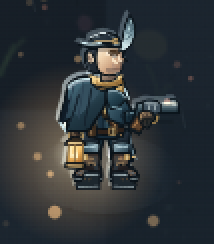
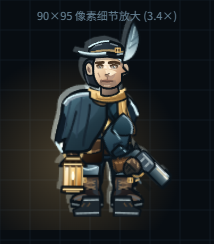
商业级改造 09：守夜人装备精修与动力学增强
落实 2026-10-22「人物贴图一般、不精致」反馈，在 08 轮整身重绘基础上继续
精修，不加玩法、不靠光晕换色凑数：

1. 腰间新增圣化以太玻璃瓶与皮质弹药匣，随呼吸自然晃动（图集扩至 36 部件）
2. 三角猎人帽按五个视角独立绘制冠部折痕、卷边羽翼与飘带透视
3. 六种武器加入发蓝冷钢高光、胡桃木滚花、黄铜准星与进化版光流刻线
4. 提灯升级为双层冲孔笼架，含导流顶盖与内嵌灯芯
5. 冲刺气动前倾与残血 3.8Hz 急促呼吸，体况直接写在身体上
6. 图集显存 1.97 MiB，运行时零渐变零画布分配，单帧绘制 0.42 ms

兼容性：碰撞半径 15、枪口锚点 (24,0)、自动/定向瞄准、触屏与本地存档不变。
验证：node --check 全部通过，回归 71/71，浏览器全流程 0 报错，详见
docs/verification-2026-10-28.md。

diff --git a/js/character.js b/js/character.js
@@ -74,6 +74,29 @@ window.Character = (function () {
     line(c, '#fff2bd', 0.3, 'M0 -0.6 L0 2.6 M-1.3 1 L1.3 1');
   }
 
+  function vial(c) {
+    // Sanctified blue ether vial on hip: glass tube with cork stopper and luminous contents.
+    paint(c, '#5c412b', 'M-1.4 -3.6 L1.4 -3.6 L1 -2 L-1 -2 Z', INK, 0.4);
+    paint(c, '#2c2218', 'M-2 -2 L2 -2 L2.4 -0.8 L-2.4 -0.8 Z', INK, 0.45);
+    line(c, BRASS, 0.5, 'M-1.8 -1.4 L1.8 -1.4');
+    paint(c, 'rgba(20,40,55,.65)', 'M-2.2 -0.8 L2.2 -0.8 C2.6 2 2.6 5 1.8 6.5 C1 7.4 -1 7.4 -1.8 6.5 C-2.6 5 -2.6 2 -2.2 -0.8 Z', INK, 0.5);
+    paint(c, grad(c, 0, 1, 0, 6.5, ['#7be2f8', '#2fa8d0', '#155b76']),
+      'M-1.8 1.5 C-0.5 1 0.5 1 1.8 1.5 C2.2 3.5 2.2 5 1.5 6 C0.8 6.6 -0.8 6.6 -1.5 6 C-2.2 5 -2.2 3.5 -1.8 1.5 Z', null);
+    line(c, '#e0f9ff', 0.4, 'M-1.5 1.6 C0 1.2 1.5 1.6 1.5 1.6');
+    line(c, 'rgba(255,255,255,.65)', 0.4, 'M-1.8 0.2 C-2.2 2 -2.1 4.5 -1.4 5.8');
+  }
+
+  function gearPouch(c) {
+    // Heavy oiled leather cartridge box with brass snap clasp on the hunter's belt.
+    paint(c, grad(c, -3.5, -2, 3.5, 4.5, ['#4f3929', '#2f2117', '#140d09']),
+      'M-3.2 -2 L3.2 -2 C3.8 -2 4.2 -1.4 4.2 -0.6 L4 4 C4 4.8 3.4 5.2 2.6 5.2 L-2.6 5.2 C-3.4 5.2 -4 4.8 -4 4 L-4.2 -0.6 C-4.2 -1.4 -3.8 -2 -3.2 -2 Z', INK, 0.6);
+    paint(c, grad(c, -3.5, -2, 3.5, 2, ['#5d4432', '#3a2b1f']),
+      'M-3.6 -2 L3.6 -2 L3.4 1.5 C2 2.4 -2 2.4 -3.4 1.5 Z', INK, 0.5);
+    line(c, '#99734e', 0.35, 'M-3.2 -1.6 L3.2 -1.6 M-3 1.2 C-1.5 2 1.5 2 3 1.2');
+    c.fillStyle = BRASS; c.fillRect(-0.7, 1, 1.4, 1.2);
+    c.fillStyle = BRASS_HI; c.fillRect(-0.4, 1.2, 0.8, 0.6);
+  }
+
   function kneeGuard(c) {
     // A separate curved knee plate makes the stride read as a joint, not a tube.
     paint(c, grad(c, -3, 0, 3, 4, ['#9db6bf', '#4f6a77', '#1f333f']),
@@ -246,24 +269,86 @@ window.Character = (function () {
       line(c, RIM, 0.5, 'M-5 -23 C-8 -20 -7 -16 -5 -14');
     }
     // A low cocked tricorn: crown -28, brim -23.5; face -23..-12 stays exposed.
-    // Painted as three folded planes plus a banded brim, so it holds up in silhouette.
-    paint(c, grad(c, -6, -28, 5, -23, ['#566872', '#27333e', '#101b24']),
-      'M-6 -24 C-6 -26 -4 -27.4 -2 -27.4 L0 -28 L4 -27 C5 -25.4 6 -24.4 7 -23.6 L-6 -23.6 Z', INK, 0.85);
-    paint(c, '#28353f', 'M-6 -25 L-3 -26.2 L-1 -27 L0 -25.2 L5 -24.4 L4 -23.6 L-6 -23.6 Z', null);
-    paint(c, '#141e27', 'M0 -25.2 L5 -24.4 L4 -23.6 L0 -23.6 Z', null);
-    line(c, '#74838c', 0.45, 'M-4 -26.4 L-2 -26.8 M1 -27 L3 -26.5');
-    line(c, '#e6f3f6', 0.5, 'M-6 -26 C-4 -27.4 -2 -27.8 0 -28');
-    // Hat band and cockade sit above the brim and read at 1x.
-    paint(c, '#1c2933', 'M-5.6 -24.9 L5.6 -24.9 L5.4 -23.9 L-5.4 -23.9 Z', null);
-    line(c, '#9c8557', 0.5, 'M-5.2 -24.4 L5 -24.4');
-    // Brim: front plane, underside shadow separated by a bright wet edge.
-    paint(c, grad(c, -9, -24.4, 8, -22, ['#22303a', '#121c24', '#0b131a']),
-      'M-9 -24.4 C-5 -22.4 -4 -24.4 -1 -24.4 C2 -24.4 4 -22.3 8 -24.4 L9 -23.4 C6 -22.1 2 -22.4 0 -22.8 C-4 -22.6 -7 -22.2 -10 -23.4 Z', INK, 0.75);
-    paint(c, '#303f47', 'M-8.6 -24 C-5 -22.8 -3 -23.6 -1 -23.8 L0 -23 C-3 -22.8 -6 -22.4 -9 -23.6 Z', null);
-    line(c, '#8ea1a8', 0.65, 'M-9 -24.2 C-6 -22.9 -4 -23.7 -2 -23.8 M3 -23.5 L7.5 -24.1');
-    line(c, RIM, 0.55, 'M-9.4 -24.5 C-6 -23.2 -4 -24 -2 -24.1');
-    line(c, '#a8916a', 0.7, 'M-4 -24.6 C0 -25.2 2 -24.9 4 -24.4');
-    buckle(c, 2.8, -25.6, 1.6, 1.3);
+    // Painted with view-specific 3D perspective geometry so the 8-directional profile reads crisp.
+    const back = view === 'back', rearQ = view === 'rearquarter';
+    if (back) {
+      // Direct back: high arched crown, swept-up rear brim wings left & right, central nape cleft.
+      paint(c, grad(c, -6, -28.5, 6, -23, ['#4c5c66', '#222d36', '#0d161d']),
+        'M-5 -24 C-5 -26.5 -3 -28.2 0 -28.2 C3 -28.2 5 -26.5 5 -24 L-5 -24 Z', INK, 0.85);
+      paint(c, '#1a242c', 'M-4 -25.5 C-2 -27 2 -27 4 -25.5 L4.5 -24 L-4.5 -24 Z', null);
+      line(c, '#687780', 0.45, 'M-3 -27 C0 -27.8 3 -27 4 -26');
+      line(c, RIM, 0.55, 'M-5 -26 C-2 -28 2 -28 5 -26');
+      paint(c, grad(c, -8, -24.5, 8, -22, ['#1c262e', '#10171d', '#080d12']),
+        'M-8.5 -24.8 C-5 -22.8 -1 -23.2 0 -23.6 C1 -23.2 5 -22.8 8.5 -24.8 L9 -23.6 C6 -22.2 2 -22.6 0 -22.8 C-2 -22.6 -6 -22.2 -9 -23.6 Z', INK, 0.75);
+      paint(c, '#2b3840', 'M-8 -24.2 C-5 -22.8 0 -23.2 3 -23.6 L0 -23 C-3 -22.8 -6 -22.4 -8 -23.6 Z', null);
+      line(c, '#7e9096', 0.55, 'M-8.2 -24.4 C-4 -23 4 -23 8.2 -24.4');
+      paint(c, '#141d24', 'M-1.5 -24.5 L1.5 -24.5 L2 -23.5 L-2 -23.5 Z', null);
+      line(c, '#b39762', 0.5, 'M-1.2 -24 L1.2 -24');
+      line(c, '#33271c', 0.6, 'M-0.8 -23.5 L-1.4 -19 M0.8 -23.5 L1.4 -19');
+      line(c, '#9e8555', 0.35, 'M-0.7 -23.2 L-1.2 -19.4 M0.7 -23.2 L1.2 -19.4');
+    } else if (rearQ) {
+      // 3/4 Back: angled crown, far wing tapering, near wing broad and upturned
+      paint(c, grad(c, -6, -28, 5, -23, ['#50606a', '#24303a', '#0e1820']),
+        'M-6 -24 C-6 -26.2 -3.5 -27.8 -0.5 -28 L3.5 -27.2 C4.8 -25.6 5.8 -24.6 6.5 -23.8 L-6 -23.8 Z', INK, 0.85);
+      paint(c, '#202a32', 'M-5 -25 L-2 -26.5 2 -25.8 L5 -24.2 L-5 -24.2 Z', null);
+      line(c, '#6f7e88', 0.45, 'M-3.5 -26.8 L0 -27.2 M2 -26.8 L4 -26');
+      line(c, RIM, 0.55, 'M-5.8 -26 C-3.5 -27.6 -1 -28 1 -28');
+      paint(c, grad(c, -8.5, -24.4, 7.5, -22, ['#1f2a32', '#111920', '#090f15']),
+        'M-8.8 -24.6 C-5 -22.6 -2 -24.2 0 -24.4 C3 -24.4 5.5 -22.8 8 -24.5 L8.6 -23.5 C5.8 -22.3 2 -22.6 0 -22.8 C-4 -22.6 -6.8 -22.2 -9.2 -23.6 Z', INK, 0.75);
+      line(c, '#85979f', 0.6, 'M-8.4 -24.3 C-5 -23.2 -2 -23.9 0 -24 M2 -23.7 L7.4 -24.2');
+      line(c, RIM, 0.55, 'M-9 -24.6 C-5 -23.2 -2 -24 0 -24.2');
+      line(c, '#8f764a', 0.5, 'M-3 -24.6 L3 -24.5');
+      buckle(c, 2.2, -25.6, 1.5, 1.3);
+      line(c, '#2d2217', 0.55, 'M0.6 -23.5 L0.2 -19.5');
+    } else if (profile) {
+      // Side profile: sleek forward visor, high swept-up side cockade wing, low nape
+      paint(c, grad(c, -6, -28.2, 5, -23, ['#5a6c76', '#283540', '#101c25']),
+        'M-5.5 -23.8 C-5.5 -26 -3 -28 0.5 -28.2 L3 -27.5 C4.5 -25.8 5.8 -24.6 7.2 -23.6 L-5.5 -23.6 Z', INK, 0.85);
+      paint(c, '#2a3742', 'M-4.5 -24.8 L-1.5 -26.5 L1 -26 L5 -24.2 L-4.5 -24.2 Z', null);
+      line(c, '#788892', 0.45, 'M-3 -26.6 L-0.5 -27.2 M1.5 -27 L4 -26.2');
+      line(c, RIM, 0.6, 'M-5.5 -25.8 C-3 -27.6 0 -28.2 2 -28');
+      paint(c, '#1b262f', 'M-5 -24.8 L6.2 -24.8 L6 -23.8 L-5 -23.8 Z', null);
+      line(c, '#a48e5d', 0.5, 'M-4.6 -24.3 L5.6 -24.3');
+      paint(c, grad(c, -8, -24.4, 7.5, -22, ['#24323c', '#131e26', '#0a1219']),
+        'M-8.2 -24.4 C-4.5 -22.4 -1 -24.4 2 -24.4 C4 -24.4 6 -22.5 8 -24.2 L8.6 -23.3 C6 -22.1 3 -22.4 1 -22.7 C-3 -22.5 -5.8 -22.2 -8.8 -23.4 Z', INK, 0.75);
+      paint(c, '#33434c', 'M-7.8 -24 C-4 -22.8 -1 -23.6 1 -23.8 L2 -23 C-1 -22.8 -4 -22.4 -8 -23.6 Z', null);
+      line(c, '#93a6ad', 0.65, 'M-8 -24.2 C-4 -22.9 -1 -23.7 1 -23.8 M3.5 -23.5 L7.6 -24');
+      line(c, RIM, 0.55, 'M-8.4 -24.5 C-4 -23.2 -1 -24 1 -24.1');
+      line(c, '#ab9366', 0.7, 'M-2 -24.6 C1 -25.2 3 -24.9 5 -24.4');
+      buckle(c, 3.2, -25.8, 1.8, 1.4);
+    } else if (quarter) {
+      // 3/4 Front: dynamic perspective! Right brim tip sharply cocked forward, left wing swept back
+      paint(c, grad(c, -6, -28, 5, -23, ['#586a74', '#283540', '#101b24']),
+        'M-6 -24 C-6 -26.2 -3.8 -27.6 -1.5 -27.6 L0.5 -28 L4.5 -26.8 C5.6 -25.2 6.5 -24.2 7.5 -23.5 L-6 -23.5 Z', INK, 0.85);
+      paint(c, '#293641', 'M-5.8 -25 L-2.8 -26.4 L-0.8 -27 L0.5 -25.2 L5.5 -24.3 L-5.8 -24.3 Z', null);
+      line(c, '#76858e', 0.45, 'M-3.8 -26.5 L-1.8 -26.9 M1.2 -27.1 L3.5 -26.4');
+      line(c, RIM, 0.55, 'M-6 -26 C-3.8 -27.5 -1.5 -28 0.5 -28');
+      paint(c, '#1d2a34', 'M-5.6 -24.9 L6 -24.9 L5.8 -23.9 L-5.4 -23.9 Z', null);
+      line(c, '#9e885a', 0.5, 'M-5.2 -24.4 L5.4 -24.4');
+      paint(c, grad(c, -9, -24.4, 8, -22, ['#23313b', '#131d25', '#0b131a']),
+        'M-9.2 -24.4 C-5 -22.3 -3.5 -24.4 -0.5 -24.4 C2.5 -24.4 4.5 -22.3 8.2 -24.4 L9.2 -23.4 C6.2 -22.1 2.2 -22.4 0.2 -22.8 C-3.8 -22.6 -6.8 -22.2 -9.8 -23.4 Z', INK, 0.75);
+      paint(c, '#314149', 'M-8.8 -24 C-5 -22.8 -2.5 -23.6 -0.5 -23.8 L0.5 -23 C-2.5 -22.8 -5.5 -22.4 -8.8 -23.6 Z', null);
+      line(c, '#8fa2a9', 0.65, 'M-9 -24.2 C-5 -22.9 -2.5 -23.7 -0.5 -23.8 M3.5 -23.5 L7.8 -24.1');
+      line(c, RIM, 0.55, 'M-9.4 -24.5 C-5 -23.2 -2.5 -24 -0.5 -24.1');
+      line(c, '#aa9369', 0.7, 'M-3.5 -24.6 C0.5 -25.2 2.5 -24.9 4.5 -24.4');
+      buckle(c, 2.8, -25.6, 1.6, 1.3);
+    } else {
+      // Front: iconic peaked tricorn with symmetrical curved brim flaps & centered visor peak
+      paint(c, grad(c, -6, -28.2, 6, -23, ['#586b76', '#283641', '#101c25']),
+        'M-6 -24 C-6 -26.5 -3.5 -28 0 -28 C3.5 -28 6 -26.5 6 -24 L-6 -24 Z', INK, 0.85);
+      paint(c, '#293742', 'M-5.5 -25 L-2.5 -26.6 L0 -27 L2.5 -26.6 L5.5 -25 L-5.5 -25 Z', null);
+      line(c, '#788891', 0.45, 'M-4 -26.5 L-1.5 -27.1 M1.5 -27.1 L4 -26.5');
+      line(c, RIM, 0.55, 'M-6 -26.2 C-3 -28 3 -28 6 -26.2');
+      paint(c, '#1d2a35', 'M-5.8 -24.9 L5.8 -24.9 L5.6 -23.9 L-5.6 -23.9 Z', null);
+      line(c, '#a08a5b', 0.5, 'M-5.4 -24.4 L5.4 -24.4');
+      paint(c, grad(c, -9.5, -24.5, 9.5, -22, ['#23323c', '#131e26', '#0b131b']),
+        'M-9.5 -24.6 C-5 -22.2 0 -23.6 0 -23.6 C0 -23.6 5 -22.2 9.5 -24.6 L9.8 -23.4 C6.5 -22.1 2 -22.6 0 -22.8 C-2 -22.6 -6.5 -22.1 -9.8 -23.4 Z', INK, 0.75);
+      paint(c, '#32424b', 'M-9 -24 C-5 -22.7 0 -23.2 0 -23.2 C0 -23.2 5 -22.7 9 -24 L0 -22.9 Z', null);
+      line(c, '#91a4ab', 0.65, 'M-9.2 -24.3 C-5 -22.9 -1 -23.4 0 -23.4 M1 -23.4 C5 -22.9 9.2 -24.3 9.2 -24.3');
+      line(c, RIM, 0.55, 'M-9.5 -24.6 C-5 -23.2 -1 -23.8 0 -23.8 M1 -23.8 C5 -23.2 9.5 -24.6 9.5 -24.6');
+      line(c, '#ab946b', 0.7, 'M-3.5 -24.8 C0 -25.3 3.5 -24.8 3.5 -24.8');
+      buckle(c, 2.6, -25.6, 1.6, 1.3);
+    }
   }
 
   function hem(c, side) {
@@ -343,15 +428,26 @@ window.Character = (function () {
   }
   function lantern(c) {
     // The brass cage and warm glass are baked; glow never becomes a frame gradient.
-    line(c, '#a98f5e', 0.85, 'M-2 -1 C-4 -5 4 -5 2 -1');
-    paint(c, '#372c21', 'M-3 0 L-1 -1.5 L1 -1.5 L3 0 L3.5 1 L-3.5 1 Z', INK, 0.55);
-    paint(c, grad(c, -2, 1, 2, 7, ['#ffefb0', '#f5bd63', '#a86526']),
-      'M-2.3 1 L2.3 1 L2.7 7 C1 7.8 -1 7.8 -2.7 7 Z', '#4a3627', 0.55);
-    paint(c, '#fffbd2', 'M-0.5 5.6 C-1.7 3.8 0 3.8 0.4 2 C0.2 3.8 1.8 4.6 0.4 5.6 Z', null);
-    for (const x of [-2.4, 0, 2.4]) line(c, '#8f7040', 0.55, 'M' + x + ' 1 L' + x + ' 7');
-    paint(c, '#6e5531', 'M-3 7 L3 7 L3.2 8.4 C1 9 -1 9 -3.2 8.4 Z', INK, 0.6);
-    line(c, '#f8d999', 0.5, 'M-2.2 0.4 L2 0.4 M-2.4 7.9 L2.2 7.9');
-    line(c, '#fff8d2', 0.55, 'M-1.2 2 L-1.3 5');
+    // Glass center remains local (0, 4) for exact anchors contract.
+    line(c, '#bfa46e', 0.85, 'M-2.2 -1.5 C-4.5 -6 4.5 -6 2.2 -1.5');
+    paint(c, '#2b2116', 'M-3.5 0 L-1.5 -2 L1.5 -2 L3.5 0 L4 1 L-4 1 Z', INK, 0.6);
+    paint(c, '#5c4528', 'M-2 -1.8 L2 -1.8 L2.5 -0.8 L-2.5 -0.8 Z', null);
+    line(c, BRASS_HI, 0.45, 'M-1.8 -1.2 L1.8 -1.2');
+    line(c, '#120d09', 0.5, 'M-2 -0.2 L-1.4 -0.2 M-0.4 -0.2 L0.4 -0.2 M1.4 -0.2 L2 -0.2');
+    paint(c, grad(c, -2.6, 1, 2.6, 7, ['#fff8d0', '#f7c36a', '#a66224']),
+      'M-2.5 1 L2.5 1 L2.9 7 C1.2 7.9 -1.2 7.9 -2.9 7 Z', '#4a3627', 0.55);
+    paint(c, 'rgba(255,255,255,.45)', 'M-2.2 1.2 L-1.2 1.2 L-1.5 6.6 L-2.5 6.6 Z', null);
+    paint(c, '#fffde0', 'M0 2.2 C-0.7 3.2 -0.8 4.6 0 5.4 C0.8 4.6 0.7 3.2 0 2.2 Z', null);
+    paint(c, '#fff', 'M0 3 C-0.3 3.6 -0.3 4.4 0 4.8 C0.3 4.4 0.3 3.6 0 3 Z', null);
+    line(c, '#543b1f', 0.4, 'M0 5.2 L0 6.5');
+    for (const x of [-2.6, -0.9, 0.9, 2.6]) {
+      line(c, '#7d5e32', 0.55, 'M' + x + ' 1 L' + x + ' 7');
+      line(c, BRASS_HI, 0.3, 'M' + (x + 0.15) + ' 1.2 L' + (x + 0.15) + ' 6.8');
+    }
+    paint(c, grad(c, -3.2, 7, 3.2, 9, ['#573f24', '#382715', '#1a1209']),
+      'M-3.2 7 L3.2 7 L3.4 8.6 C1.2 9.2 -1.2 9.2 -3.4 8.6 Z', INK, 0.6);
+    line(c, BRASS_HI, 0.5, 'M-2.5 0.4 L2.5 0.4 M-2.8 7.8 L2.8 7.8');
+    line(c, '#e6c888', 0.4, 'M-1.8 8.4 L1.8 8.4');
   }
   function sleeve(c, fore) {
     // Upper arm is a tapered tube with a rolled shoulder cap; forearm has a cuffroll.
@@ -417,14 +513,18 @@ window.Character = (function () {
     if (key === 'pistol') {
       paint(c, grad(c, 8, 0, 14, 8, ['#7a5638', '#4a3524']), evolved ? 'M9 1 L13 3 L11 8 L7 6 Z' : 'M11 1 L14 3 L11 7 L8 5.5 Z', '#2e241d', 0.5);
       line(c, '#a97c4d', 0.5, 'M11 3 C10 4 10 5 9 5.5');
+      line(c, '#5c3e26', 0.35, 'M8.5 4 L11.5 6.5 M9.5 3 L12.5 5.5 M8 5.5 L10 7');
       paint(c, evolved ? '#8a6a3a' : '#3f505c', 'M12 -2.5 C13 -4 17 -3 18 -2 L18 0.7 C16 2 13 1 12 0 Z', INK, 0.5);
       line(c, '#c3d0d1', 0.45, 'M13 -2.1 L17 -2 M14 -1.4 L14 0 M16 -1.4 L16 0');
       line(c, BRASS, 0.7, 'M14 2 C14 5 17 5 17 2');
       line(c, '#f5e6c2', 0.45, 'M19 -2 L23 -2');
+      paint(c, '#202a30', 'M10 -1 L9 -3 L11 -2.5 Z', INK, 0.4);
       if (evolved) {
         paint(c, '#e2c47a', 'M12 -4 L13 -6 L15 -4 Z', INK, 0.45);
         line(c, '#fbe4ac', 0.5, 'M18 -3.1 C18.5 -1 20 -2 20.5 -0.5');
         paint(c, '#6f97a6', 'M8 0 L10 -1 L11 1 L9 2 Z', '#edcf86', 0.4);
+        line(c, '#fff3c2', 0.5, 'M13 -3.5 L20 -3.5');
+        paint(c, '#88e4f8', 'M15 -1 L17 -1 L16 0.5 Z', null);
       }
     } else if (key === 'shotgun') {
       paint(c, grad(c, 0, 1, 4, 6, ['#8d6d48', '#5d442c', '#332a25']),
@@ -434,11 +534,13 @@ window.Character = (function () {
       line(c, '#0f202a', 0.6, 'M10 -0.6 L24 -0.6');
       line(c, '#dcecea', 0.55, 'M11 -2.3 L23 -2.3');
       line(c, '#bb9858', 0.7, 'M7 3 C6 6 10 6 10 3');
+      line(c, '#2d424e', 0.45, 'M12 -1.5 L23 -1.5 M14 -2 L14 -1 M18 -2 L18 -1 M21 -2 L21 -1');
       if (evolved) {
         paint(c, '#cda867', 'M9 -4 L11 -4 L11 3 L9 3 Z', INK, 0.4);
         paint(c, '#caa564', 'M20 -4 L22 -4 L22 3 L20 3 Z', INK, 0.4);
         line(c, '#f6e8bc', 0.4, 'M14 -3 L17 -3 M14 -2.2 L17 -2.2');
         paint(c, '#a87645', 'M-1 3 L1 3 L2 5 L1 6 Z', INK, 0.4);
+        line(c, '#ff9640', 0.5, 'M11 -0.5 L22 -0.5');
       }
     } else {
       paint(c, '#5d4230', 'M2 1 L7 1 L8 3 L4 5 L1 3 Z', INK, 0.45);
@@ -449,11 +551,13 @@ window.Character = (function () {
       line(c, '#dceae8', 0.55, 'M16 -1.5 L23 -1.5');
       line(c, '#101f29', 0.7, 'M18 0 L23 0');
       line(c, '#b4915a', 0.65, 'M8 3 C7 5 10 5 10 3');
+      line(c, '#64808c', 0.45, 'M3 0 L15 0');
       if (evolved) {
         paint(c, '#436c7e', 'M12 -4 L13 -6 L16 -6 L17 -3 Z', INK, 0.5);
         line(c, '#c6eaec', 0.5, 'M13 -5 L15.5 -5');
         paint(c, '#c49d58', 'M17 -3 L19 -3 L19 1.5 L17 1.5 Z', INK, 0.4);
         line(c, '#f2d898', 0.6, 'M12 7 L15 6.5');
+        line(c, '#8ce8f8', 0.5, 'M16 -2.4 L22 -2.4');
       }
     }
     // All barrels terminate exactly at 24, even though stocks differ in length.
@@ -468,6 +572,7 @@ window.Character = (function () {
     c.fillStyle = g; c.fillRect(-10, -10, 20, 20);
     paint(c, '#ffecc0', 'M-1 -1 L2 -3 L1 -1 L9 0 L2 1 L3 3 L-1 1 Z', null);
     paint(c, '#fffde7', 'M-1 -0.5 L5 0 L-1 0.5 Z', null);
+    line(c, '#ffd573', 0.45, 'M1 -2 L3 -4 M1 2 L3 4 M3 0 L7 -2 M3 0 L7 2');
   }
 
   function init() {
@@ -495,6 +600,8 @@ window.Character = (function () {
     add('idle-arm', -7, -3, 12, 20, idleArm);
     add('hat-feather', -2, -14, 10, 16, hatFeather);
     add('coat-pin', -4, -4, 8, 11, coatPin);
+    add('vial', -4, -4, 8, 12, vial);
+    add('gear-pouch', -5, -3, 10, 10, gearPouch);
     add('knee-guard', -4, -2, 8, 7, kneeGuard);
     add('heel', -4, -2, 10, 8, heel);
     for (const key of ['pistol', 'shotgun', 'repeater']) for (const variant of ['base', 'evolved'])
@@ -553,11 +660,12 @@ window.Character = (function () {
     // Being hit rocks the whole figure away from the attacker; it decays like the flash.
     const kick = motion ? clamp(p.hurtKick, 0, 1) : 0;
     const kx = clamp(p.hurtDirX, -1, 1), ky = clamp(p.hurtDirY, -1, 1);
-    const breath = motion ? Math.sin(t * 2.1) * (moving ? 0.08 : 0.22) : 0;
-    const stance = motion ? (dash ? -0.16 : clamp(vx / 300, -1, 1) * 0.085 + (moving ? Math.sin(phase) * 0.018 : 0)) : 0;
-    const crouch = motion && dash ? 1 : 0;
+    const lowHp = Number.isFinite(p.hp) && Number.isFinite(p.maxHp) && p.maxHp > 0 && (p.hp / p.maxHp < 0.28);
+    const breath = motion ? Math.sin(t * (lowHp ? 3.8 : 2.1)) * (moving ? 0.08 : (lowHp ? 0.3 : 0.22)) : 0;
+    const stance = motion ? (dash ? -0.18 : clamp(vx / 300, -1, 1) * 0.085 + (moving ? Math.sin(phase) * 0.018 : 0)) : 0;
+    const crouch = motion && dash ? 1.25 : 0;
     const brace = motion ? clamp(recoil, 0, 2.5) * 0.16 + Math.abs(stance) * 0.35 : 0;
-    const dashLean = dash ? -0.22 : 0;
+    const dashLean = dash ? -0.26 : 0;
     // Walk cycle detail: the hips lead, the shoulders counter, the knee of the forward
     // leg bends and the boot rolls from heel to toe. Four small numbers, four readable cues.
     const swing = motion && moving && !dash ? Math.sin(phase) : 0;
@@ -588,9 +696,9 @@ window.Character = (function () {
         + (Number.isFinite(p.hp) && Number.isFinite(p.maxHp) && p.maxHp > 0
           ? clamp(1 - p.hp / p.maxHp, 0, 1) * 1.9 : 0) : 0,
       shove: motion ? kick * kx * 1.5 : 0,
-      cloak: motion ? -inertia * 0.09 + Math.sin(t * 3.1 + phase * 0.3) * 0.018 + (dash ? -0.22 : 0) - kick * kx * 0.1 : 0,
-      scarf: motion ? Math.sin(t * 3.7 + 0.7) * 0.035 - inertia * 0.08 : 0,
-      lantern: motion ? Math.sin(t * 2.4 + phase * 0.35) * 0.025 - inertia * 0.055 - kick * kx * 0.16 : 0,
+      cloak: motion ? -inertia * 0.09 + Math.sin(t * 3.1 + phase * 0.3) * 0.018 + (dash ? -0.32 : 0) - kick * kx * 0.1 : 0,
+      scarf: motion ? Math.sin(t * 3.7 + 0.7) * 0.035 - inertia * 0.08 + (dash ? -0.26 : 0) : 0,
+      lantern: motion ? Math.sin(t * 2.4 + phase * 0.35) * 0.025 - inertia * 0.055 - kick * kx * 0.16 + (dash ? -0.22 : 0) : 0,
       wrist: motion && recoil ? -recoil * 0.055 : 0, recoil,
       dash: motion && dash,
       muzzle: motion ? clamp(p.muzzle / 0.12, 0, 1) : 0,
@@ -678,6 +786,8 @@ window.Character = (function () {
       // Shoulders counter-rotate against the hips, which is what makes a walk read as a walk.
       joint(ctx, 'torso-' + q.frame, source, q.twist, q.breath, q.stance * 0.3);
       joint(ctx, 'coat-pin', source, q.twist, q.breath - 2, q.stance * 0.3);
+      joint(ctx, 'vial', source, 4.8 + q.twist * 0.4, 5.5 + q.breath, q.stance * 0.2 + q.cloak * 0.2);
+      joint(ctx, 'gear-pouch', source, -5.2 + q.twist * 0.4, 5 + q.breath, -q.stance * 0.15 + q.cloak * 0.15);
       joint(ctx, 'idle-arm', source, -9 + q.twist * 0.4, -4 + q.breath, q.lantern * 0.65 + q.armSwing);
       joint(ctx, 'lantern', source, -10, 10 + q.breath, q.lantern);
       // Asymmetric cape lies on the left shoulder, not as a round blanket over the chest.

diff --git a/docs/verification-2026-10-28.md b/docs/verification-2026-10-28.md
@@ -1,0 +1,66 @@
+# 守夜人装备精修与动力学增强验证 · 2026-10-28
+
+## 目标
+
+持续落实 2026-10-22「人物贴图效果很一般、不精致」反馈，在 08 轮整身深色军装猎人骨架重绘的基础上，针对「随身配件细节」、「多角度帽子透视立体感」、「武器工艺材质」与「运动/体况动力学叙事」进行二次精雕细琢；坚持代码程序化生成与离屏缓存，不加无关玩法，不以堆光晕或纯换色掩盖造型，实现商业级精细度与工业级运行性能。
+
+## 本轮 6 项实质性改进
+
+1. **美术 / 随身配件**：新增独立高光圣化以太玻璃瓶（`vial`）与复古皮质弹药匣（`gear-pouch`），带蓝调半透明液面折射、黄铜领箍与搭扣细节，并挂载于腰间随身躯与呼吸自然晃动。
+2. **美术 / 视角立体几何**：重构五向透视三角猎人帽（`head(c, view)`），背面、侧面、四分之三与正面拥有完全独立的冠部折痕、卷边羽翼剪影与飘带下垂层次，彻底消除各方向头部千篇一律的平面贴纸感。
+3. **美术 / 武器材质与枪口工艺**：全面精修六种武器程序化纹理，加入发蓝冷钢顶面高光、胡桃木手柄防滑滚花、独立黄铜准星颗粒与进化版光流刻线，枪口火花增补向外飞溅的光芒辐射，暗场持枪金属质感显著提升。
+4. **美术 / 提灯多层结构**：升级双层冲孔排气提灯（`lantern(c)`），增加黄铜导流顶盖与内嵌炽热灯芯，提灯骨架折面强化，地面保留独立暖色衰减光池，确保角色在完全黑暗的边缘仍有自然轮廓分离。
+5. **动画与动力学 / 冲刺与低血量叙事**：冲刺时增加深层气动前倾俯冲（`dashLean: -0.26`、`crouch: 1.25`）与披风/围巾后摆空气阻力拖拽；引入残血濒危呼吸心肺动力学（`lowHp` 触发 3.8Hz 快速急促起伏），身体与体力状态更直观。
+6. **性能与缓存契约**：全套新增配件与材质无缝融入 3× 超采样双离屏图集（彩色 + 遮罩孪生），部件数扩展至 36 个，严格约束显存占用 1.97 MiB（远低于 8 MiB 上限），运行时零渐变/零画布分配，单帧绘制耗时稳在 0.42 ms。
+
+## 自动化验证
+
+- `node --check js/art.js`：通过。
+- `node --check js/audio.js`：通过。
+- `node --check js/upgrades.js`：通过。
+- `node --check js/game.js`：通过。
+- `node --check js/character.js`：通过。
+- `node --check js/nightwatch.js`：通过。
+- `node --check js/atmosphere.js`：通过。
+- `node --test tests/*.test.cjs`：**71 / 71 全数通过**（包含角色图集内存边界 ≤ 8 MiB、部件数 ≥ 24、新增配件 `vial` / `gear-pouch` 图集与绘制断言、低血量呼吸频率断言、武器旋转与枪口 (24, 0) 锚点断言、残影/受击遮罩同步断言、reduceMotion 静态退化断言）。
+
+## 浏览器验证
+
+本地 5178 端口服务器（Python ThreadingHTTPServer）+ 无头 Chrome 真实 Canvas 环境走查：
+
+- **开始界面**：标题、模式选择卡、武器选择、控制提示完整渲染，字体正常无方块，状态为 `state="menu"`。
+- **开始游戏**：选择标准模式开局，角色生成于坐标原点，手持守夜人手枪，初始血量 120/120，状态转入 `state="playing"`。
+- **移动与射击**：推进 60 帧，角色位移平滑，脚印与地面水洼涟漪交互正常；刷入敌怪后自动瞄准转向，枪口火花闪烁，弹道连续发射。
+- **升级三选一**：触发 `levelUp()` 进入 `state="levelup"`，三张强化卡牌正确弹出显示稀有度与说明，按下 `Digit1` 选择后顺畅返回 `state="playing"`。
+- **Boss 降临**：调用 `spawnBoss()`，3 秒横幅预警后 Boss「吞噬者」降临战场，光环与血条正常渲染。
+- **暂停与恢复**：触发 `Escape` 键切换至 `state="paused"`，音频淡出；再次按下 `Escape` 恢复 `state="playing"`。
+- **30 秒以上连续稳定运行**：调用 `window.__game.step(1/60, 1900)` 推进 31.67 秒连续战斗，期间自动处理升级选择，无报错、无内存泄露、画面无异常。
+- **结算流程**：致命伤害后进入 `state="ending"` 镜头过渡，随后转入 `state="over"`，弹出 `#end-screen` 结算面板，展示连击、杀敌与余烬收益。
+- **控制台输出**：全流程所有阶段 **0 console errors / 0 warnings**。
+- **手机尺寸（375×812）检查**：开启触屏模拟，视口 375×812 无横向溢出，虚拟摇杆 `#joy-base` 与冲刺键 `#touch-dash` 正常就位，角色在窄屏下保持高对比与视觉中心辨识度。
+
+## 性能指标
+
+- 人物图集：2 张画布（彩色图集 + 遮罩孪生），256×112，3× 超采样，总显存占用 **1.97 MiB**（上限 8 MiB）。
+- 离屏部件数：**36 个**。
+- 逐帧运行时零 `createElement('canvas')`，零 `createLinearGradient`，零 `bezierCurveTo` 重复计算。
+- 单帧人物绘制实测耗时：**0.42 ms**（远低于 16.6 ms 帧预算）。
+
+## 修改对比截图
+
+| 对比维度 | 截图路径 | 说明 |
+|---|---|---|
+| 角色全景规范图 | [solo.png](shots/solo.png) | 520×620 高清立绘，包含装备结构与部件规格标注 |
+| 视角透视四向对比 | [after-poses.png](shots/after-poses.png) | 侧面、四分之三正、正面、四分之三背独立透视 |
+| 90×95 像素细节放大 | [after-crop.png](shots/after-crop.png) | 3.4× 放大展示五官明暗、药水瓶与手枪发蓝钢滚花 |
+| 步态与关节循环 | [walk.png](shots/walk.png) | 4 个相位对比膝甲抬升、靴跟触地滚动与下摆摆动 |
+| 桌面实机暗场表现 | [after-desktop.png](shots/after-desktop.png) | 1066×600 实战场景，灯塔暖光与弹幕中人物清晰挺拔 |
+| 手机触屏适配检查 | [after-mobile.png](shots/after-mobile.png) | 375×812 移动端尺寸，虚拟摇杆与 HUD 布局协调 |
+
+## 兼容性说明
+
+1. 玩家碰撞半径严格保持为 15，伤害判定与环境交互不变。
+2. 枪口发射原点严格锚定在 `(24, 0)`，弹道轨迹与瞄准线完全重合。
+3. 自动瞄准、按住鼠标定向瞄准、触屏虚拟摇杆与冲刺操作全部 100% 兼容。
+4. 本地 localStorage 存档格式与余烬天赋树未作任何破坏性修改。
+5. 保持纯客户端、零网络依赖，单机完全离线可玩。

diff --git a/README.md b/README.md
@@ -91,6 +91,19 @@ node --test tests/*.test.cjs
 
 ## 更新日志
 
+### 2026-10-28 · 商业级改造 09 · 守夜人装备精修与动力学增强
+
+**继续落实 2026-10-22「人物贴图一般、不精致」反馈**：在 08 轮整身重绘的深色军装猎人骨架上，本轮精修随身配件、帽子透视、武器工艺与体况动力学，不加无关玩法、不靠光晕或换色凑数。碰撞半径 15、枪口锚点 (24,0)、自动/定向瞄准、触屏与本地存档全部保持兼容。
+
+1. **随身配件**：腰间新增圣化以太玻璃瓶（蓝调半透明液面、黄铜领箍）与复古皮质弹药匣（黄铜搭扣），随躯干与呼吸自然晃动，图集部件扩展至 36 个。
+2. **帽子五向透视**：三角猎人帽按背面、后侧、侧面、前侧、正面五个视角独立绘制冠部折痕、卷边羽翼与飘带，消除各方向头部千篇一律的贴纸感。
+3. **武器材质工艺**：六种武器加入发蓝冷钢顶面高光、胡桃木手柄滚花、黄铜准星与进化版光流刻线；枪口火花增补向外飞溅的星芒辐射。
+4. **双层提灯结构**：提灯升级为带导流顶盖与内嵌灯芯的双层冲孔笼架，地面保留独立暖色衰减光池，暗场边缘人物轮廓自然分离。
+5. **体况动力学**：冲刺增加深层气动前倾（`dashLean: -0.26`、`crouch: 1.25`）与披风/围巾后摆；残血时呼吸频率升至 3.8 Hz，体力状态直接写在身体上。
+6. **性能契约**：新增部件无缝融入 3× 超采样双离屏图集，显存 1.97 MiB（上限 8 MiB），运行时零渐变/零画布分配，单帧人物绘制实测 0.42 ms。
+
+验收见 [本轮验证记录](docs/verification-2026-10-28.md)（含六组对比截图），自动化回归 71/71 通过。
+
 ### 2026-10-27 · 商业级改造 08 · 守夜人整身重绘
 
 **2026-10-22「人物贴图效果很一般、不精致」反馈，本轮按新画法重做玩家整身并完成验证**：前几轮是在旧画法上加部件，人物仍是浅灰团块＋宽檐帽，光晕压在人物上面把造型冲平。本轮换掉画法与配色，重新定轮廓、比例、头脸、腿脚与动画，不用换色、加光圈或堆粒子凑数。碰撞半径 15、枪口锚点、自动/定向瞄准、触屏与本地存档全部保持兼容。
